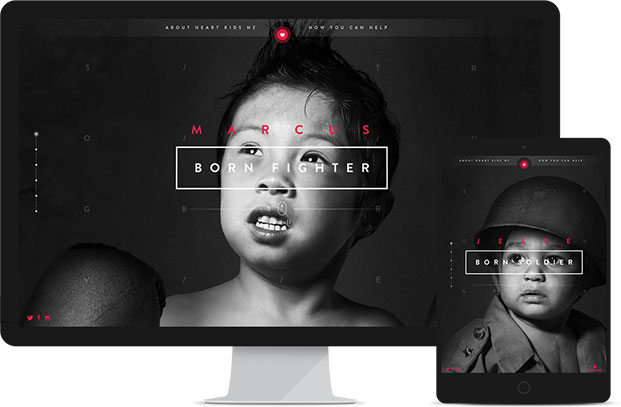
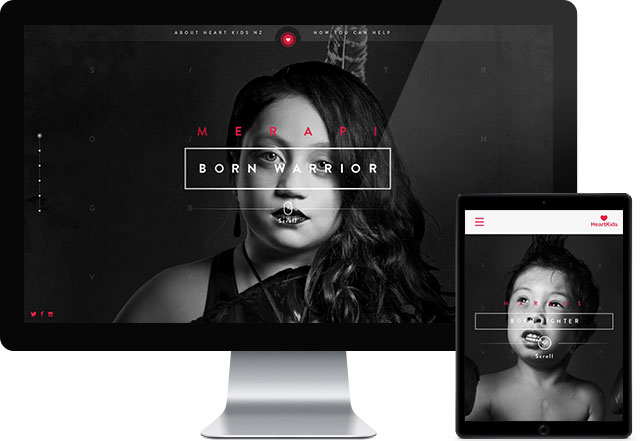
Work -> some copy/images

diff --git a/app/src/sass/sections/_work.sass b/app/src/sass/sections/_work.sass
@@ -78,6 +78,18 @@
   margin-bottom: $gap
   font-size: .9375rem
 
+.slide-list
+  margin-top: $gap / 2
+
+  li
+    position: relative
+    display: inline-block
+
+  li:not(:last-child)::after
+    content: "|"
+    display: inline-block
+    margin: 0 $gap / 4
+
 // Navigation
 .slideshow-nav
   height: $gap

diff --git a/app/sections/work.php b/app/sections/work.php
@@ -10,25 +10,45 @@
         </div>
         <div class="slide-description">
           <h2 class="slide-title title separator">Heart Kids</h2>
-          <p class="slide-lead lead">Lorem ispum dolor sit amet.</p>
-          <p class="slide-copy body-copy">
-            Heart Kids New Zealand's mission is to provide life long support for those affected by congenital heart disease (CHD) and to reach and imrive their lifes. In August 2015, we launch the Born Fighter campaign to create awareness and promote donations to HK NZ.
-          </p>
-          <a href="http://www.heartkids.co.nz/" class="slide-link btn">view site</a>
+          <!-- <p class="slide-lead lead">Lorem ispum dolor sit amet.</p> -->
+          <div class="slide-copy">
+            <p class="body-copy">
+              Heart Kids New Zealand's mission is to provide life long support for those affected by congenital heart disease (CHD) and to reach and imrive their lifes. In August 2015, we launch the Born Fighter campaign to create awareness and promote donations to HK NZ.
+            </p>
+            <ul class="slide-list body-copy">
+              <li>HTML</li>
+              <li>SASS</li>
+              <li>CoffeeScript</li>
+              <li>AJAX</li>
+              <li>Parallax</li>
+              <li>Responsive</li>
+            </ul>
+          </div>
+          <a href="http://www.heartkids.co.nz/" target="_blank" class="slide-link btn">view site</a>
         </div>
       </article>
 
       <article class="slide" data-slide="2">
         <div class="slide-image">
-          <img src="<?php echo IMAGES_PATH; ?>work/heart-kids.jpg">
+          <img src="<?php echo IMAGES_PATH; ?>work/wynyard-quarter.jpg">
         </div>
         <div class="slide-description">
-          <h2 class="slide-title title separator">Panuku</h2>
-          <p class="slide-lead lead">Lorem ispum dolor sit amet.</p>
-          <p class="slide-copy body-copy">
-            Lorem ipsum dolor sit amet, consectetur adipisicing elit. Quae ipsum qui itaque, neque minima! Voluptates, ducimus blanditiis officiis, nihil eius consectetur ad ratione cupiditate, minima, aperiam deleniti modi aspernatur ipsum.
-          </p>
-          <a href="http://www.heartkids.co.nz/" class="slide-link btn">view site</a>
+          <h2 class="slide-title title separator">Wynyard Quarter</h2>
+          <div class="slide-copy">
+            <p class="body-copy">
+              The aim of this website is to showcase the vibrant precinct of Wynyard Quarter as well as promoting &amp; attracting visitors and communicating on future developments.
+            </p>
+            <ul class="slide-list body-copy">
+              <li>HTML</li>
+              <li>SASS</li>
+              <li>CoffeeScript</li>
+              <li>JSON</li>
+              <li>AJAX</li>
+              <li>Responsive</li>
+              <li>Google Maps API</li>
+            </ul>
+          </div>
+          <a href="http://www.wynyard-quarter.co.nz/" target="_blank" class="slide-link btn">view site</a>
         </div>
       </article>
 
@@ -38,10 +58,20 @@
         </div>
         <div class="slide-description">
           <h2 class="slide-title title separator">WQ Smart</h2>
-          <p class="slide-lead lead">Lorem ispum dolor sit amet.</p>
-          <p class="slide-copy body-copy">
-            Lorem ipsum dolor sit amet, consectetur adipisicing elit. Quae ipsum qui itaque, neque minima! Voluptates, ducimus blanditiis officiis, nihil eius consectetur ad ratione cupiditate, minima, aperiam deleniti modi aspernatur ipsum.
-          </p>
+          <div class="slide-copy">
+            <p class="body-copy">
+              Panuku Development Auckland's aim for Wynyard Quarter is to create a mix of residential, retail &amp; commercial development. This website is an engaging way of sharing the progress of implementing sustainability in Wynyard Quarter.
+            </p>
+            <ul class="slide-list body-copy">
+              <li>HTML</li>
+              <li>WebGL</li>
+              <li>SASS</li>
+              <li>CoffeeScript</li>
+              <li>JSON</li>
+              <li>AJAX</li>
+              <li>Responsive</li>
+            </ul>
+          </div>
           <a href="http://www.heartkids.co.nz/" class="slide-link btn">view site</a>
         </div>
       </article>
